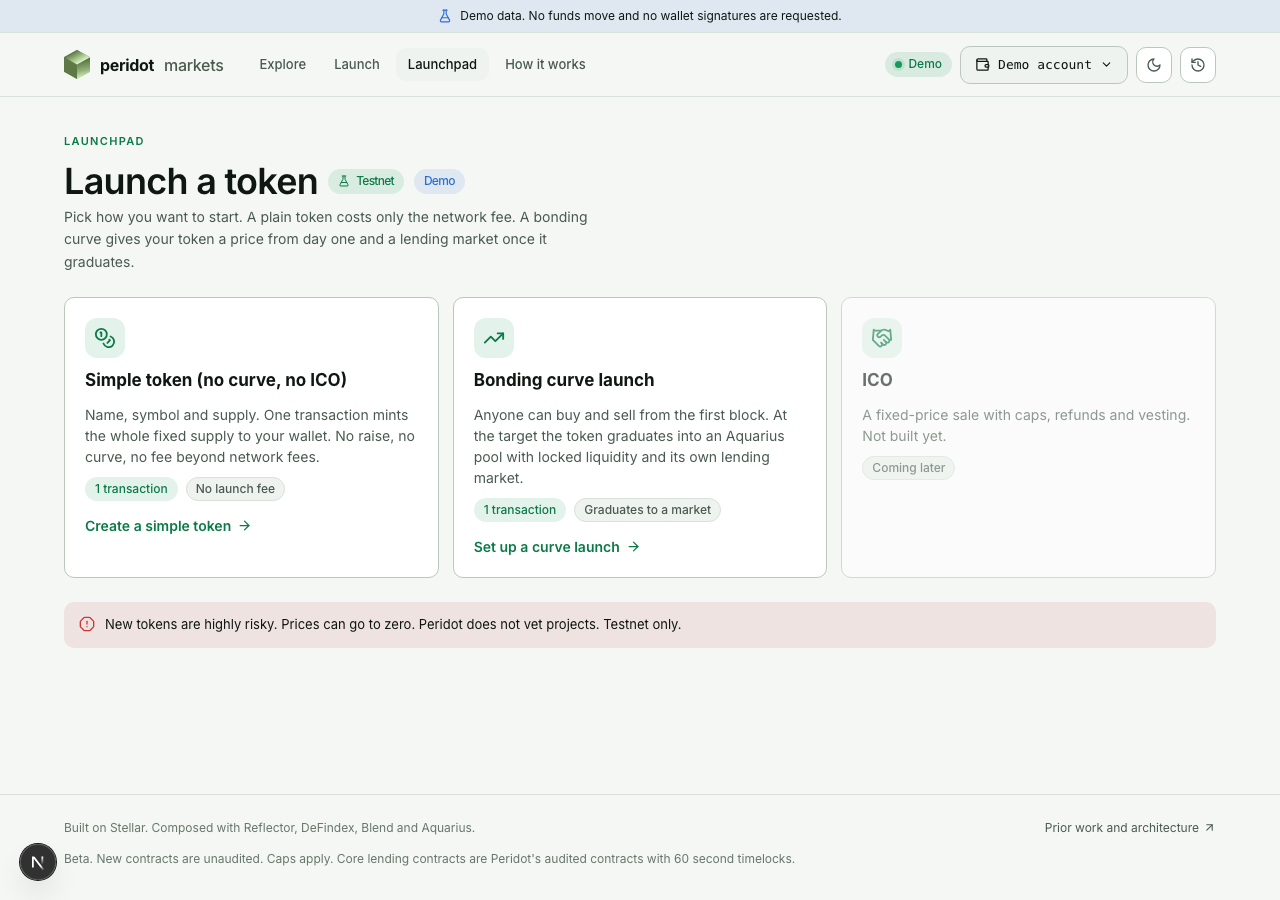
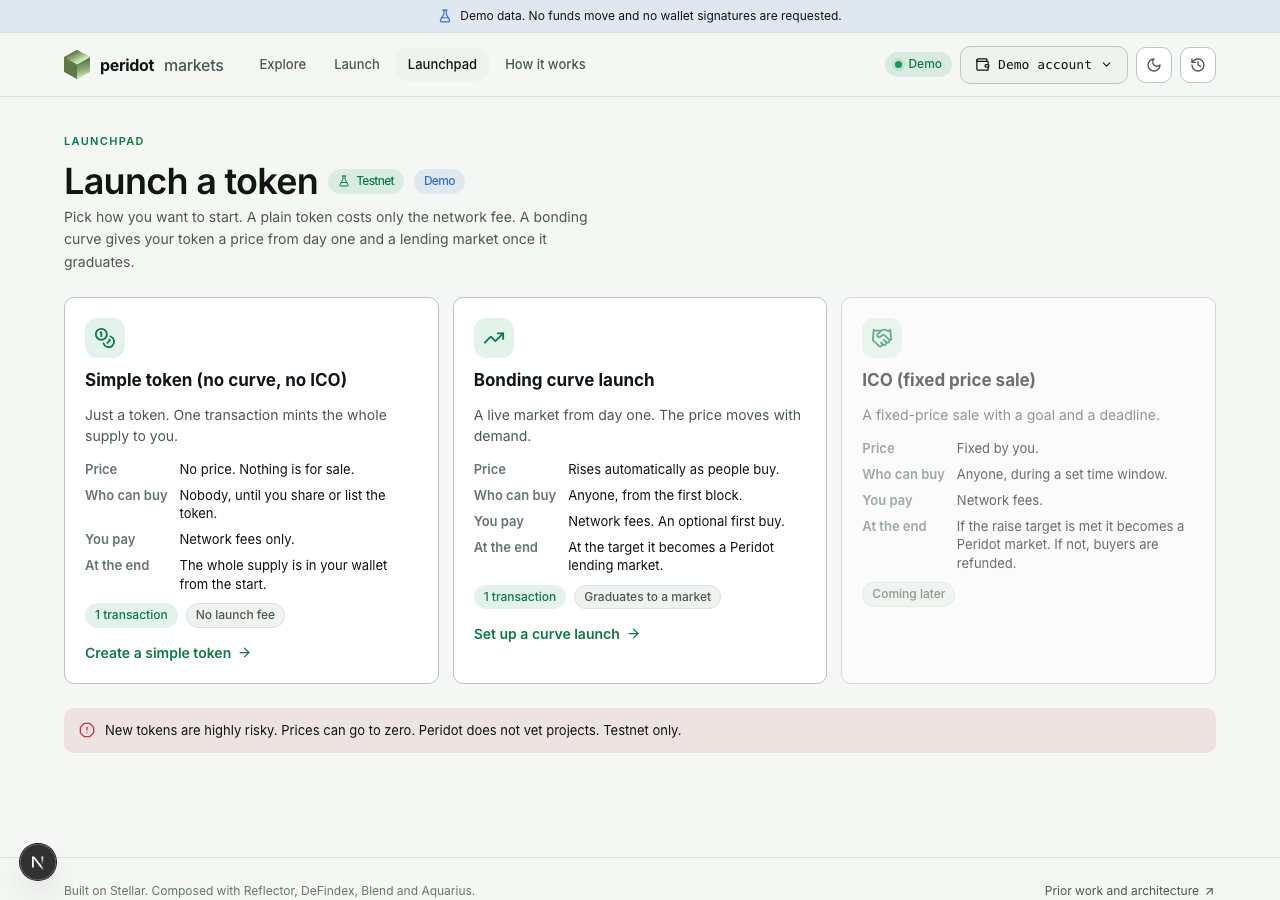
launch chooser: side-by-side comparison of Simple, Curve and ICO; type badge on token cards and pages

diff --git a/app/src/components/launchpad/TokenList.tsx b/app/src/components/launchpad/TokenList.tsx
@@ -10,7 +10,7 @@ import { launchpadCanSign } from '@/lib/launchpad/config';
 import { FINE_SCALE, finePrice, fmtPrice, reservesFromState } from '@/lib/launchpad/math';
 import { Phase, type CurveConfig, type CurveInfo, type LaunchInfo, type PlainTokenInfo } from '@/lib/launchpad/types';
 import { LpAddress } from './LpAddress';
-import { LaunchpadBadges, MainnetNotice, PhaseBadge, RISK_COPY, TokenIcon } from './LaunchpadFrame';
+import { LaunchpadBadges, MainnetNotice, PhaseBadge, RISK_COPY, TokenIcon, TypeBadge } from './LaunchpadFrame';
 
 export interface TokenSummary { launch: LaunchInfo; state: CurveInfo | null; config: CurveConfig | null; error?: string }
 type Filter = 'all' | 'new' | 'graduated' | 'plain';
@@ -48,6 +48,7 @@ export function TokenCard({ summary, mine }: { summary: TokenSummary; mine: bool
     <div className="token-card-top">
       <TokenIcon symbol={launch.symbol} />
       <div style={{ minWidth: 0 }}><h3><Link href={`/token/${launch.token}`}>{launch.name}</Link></h3><span className="subtle" style={{ fontSize: 12 }}>{launch.symbol}{mine ? ' · your launch' : ''}</span></div>
+      <TypeBadge type="curve" />
       {state ? <PhaseBadge phase={state.phase} /> : error ? <Badge tone="danger">Unavailable</Badge> : <Skeleton width={72} height={22} style={{ borderRadius: 999 }} />}
     </div>
     {error && <p className="muted" style={{ fontSize: 13 }}>Curve data unavailable: {error}</p>}
@@ -65,11 +66,11 @@ export function TokenCard({ summary, mine }: { summary: TokenSummary; mine: bool
 }
 
 export function PlainTokenCard({ info, mine }: { info: PlainTokenInfo; mine: boolean }) {
-  return <article className="card group-card token-card" aria-label={`${info.name} (${info.symbol}), plain token`}>
+  return <article className="card group-card token-card" aria-label={`${info.name} (${info.symbol}), simple token`}>
     <div className="token-card-top">
       <TokenIcon symbol={info.symbol} />
       <div style={{ minWidth: 0 }}><h3><Link href={`/token/${info.token}`}>{info.name}</Link></h3><span className="subtle" style={{ fontSize: 12 }}>{info.symbol}{mine ? ' · your token' : ''}</span></div>
-      <Badge tone="info">Plain</Badge>
+      <TypeBadge type="simple" />
     </div>
     <div className="token-card-stats">
       <Stat label="Supply" value={fmtCompact(info.supply, 7)} unit={info.symbol} />
@@ -104,7 +105,7 @@ export function TokenList() {
     </div>
     <MainnetNotice />
     <div className="row between">
-      <Tabs ariaLabel="Filter tokens" value={filter} onChange={setFilter} items={[{ value: 'all', label: `All (${counts.all})` }, { value: 'new', label: `New (${counts.new})` }, { value: 'graduated', label: `Graduated (${counts.graduated})` }, { value: 'plain', label: `Plain (${counts.plain})` }]} />
+      <Tabs ariaLabel="Filter tokens" value={filter} onChange={setFilter} items={[{ value: 'all', label: `All (${counts.all})` }, { value: 'new', label: `New (${counts.new})` }, { value: 'graduated', label: `Graduated (${counts.graduated})` }, { value: 'plain', label: `Simple (${counts.plain})` }]} />
       <span className="subtle" style={{ fontSize: 12 }}>{RISK_COPY}</span>
     </div>
     {loading ? <div className="grid-3" aria-busy="true" aria-label="Loading tokens">{[0, 1, 2].map(i => <div key={i} className="card token-card"><div className="token-card-top"><Skeleton width={40} height={40} style={{ borderRadius: 12 }} /><Skeleton width={140} height={20} /></div><div className="token-card-stats"><Skeleton height={34} /><Skeleton height={34} /></div><Skeleton height={6} /><Skeleton width="50%" /></div>)}</div>

diff --git a/app/src/components/launchpad/LaunchEntry.tsx b/app/src/components/launchpad/LaunchEntry.tsx
@@ -28,21 +28,21 @@ export default function LaunchEntry() {
       <button type="button" className="launch-choice" onClick={() => setMode('simple')} aria-label="Simple token (no curve, no ICO)">
         <span className="launch-choice-icon" aria-hidden><Coins size={22} /></span>
         <strong>Simple token (no curve, no ICO)</strong>
-        <span className="muted">Name, symbol and supply. One transaction mints the whole fixed supply to your wallet. No raise, no curve, no fee beyond network fees.</span>
+        <span className="muted">Just a token. One transaction mints the whole supply to you.</span><dl className="launch-choice-facts"><dt>Price</dt><dd>No price. Nothing is for sale.</dd><dt>Who can buy</dt><dd>Nobody, until you share or list the token.</dd><dt>You pay</dt><dd>Network fees only.</dd><dt>At the end</dt><dd>The whole supply is in your wallet from the start.</dd></dl>
         <span className="row" style={{ gap: 8 }}><Badge tone="accent">1 transaction</Badge><Badge>No launch fee</Badge></span>
         <span className="launch-choice-go">Create a simple token <ArrowRight size={15} aria-hidden /></span>
       </button>
       <button type="button" className="launch-choice" onClick={() => setMode('curve')} aria-label="Bonding curve launch">
         <span className="launch-choice-icon" aria-hidden><TrendingUp size={22} /></span>
         <strong>Bonding curve launch</strong>
-        <span className="muted">Anyone can buy and sell from the first block. At the target the token graduates into an Aquarius pool with locked liquidity and its own lending market.</span>
+        <span className="muted">A live market from day one. The price moves with demand.</span><dl className="launch-choice-facts"><dt>Price</dt><dd>Rises automatically as people buy.</dd><dt>Who can buy</dt><dd>Anyone, from the first block.</dd><dt>You pay</dt><dd>Network fees. An optional first buy.</dd><dt>At the end</dt><dd>At the target it becomes a Peridot lending market.</dd></dl>
         <span className="row" style={{ gap: 8 }}><Badge tone="accent">1 transaction</Badge><Badge>Graduates to a market</Badge></span>
         <span className="launch-choice-go">Set up a curve launch <ArrowRight size={15} aria-hidden /></span>
       </button>
       <div className="launch-choice disabled" aria-disabled="true" aria-label="ICO (not available yet)">
         <span className="launch-choice-icon" aria-hidden><Handshake size={22} /></span>
-        <strong>ICO</strong>
-        <span className="muted">A fixed-price sale with caps, refunds and vesting. Not built yet.</span>
+        <strong>ICO (fixed price sale)</strong>
+        <span className="muted">A fixed-price sale with a goal and a deadline.</span><dl className="launch-choice-facts"><dt>Price</dt><dd>Fixed by you.</dd><dt>Who can buy</dt><dd>Anyone, during a set time window.</dd><dt>You pay</dt><dd>Network fees.</dd><dt>At the end</dt><dd>If the raise target is met it becomes a Peridot market. If not, buyers are refunded.</dd></dl>
         <span className="row" style={{ gap: 8 }}><Badge>Coming later</Badge></span>
       </div>
     </div>

diff --git a/app/tests/e2e/launchpad-flows.spec.ts b/app/tests/e2e/launchpad-flows.spec.ts
@@ -31,6 +31,7 @@ test('launch a test token, trade, reach a target, graduate in six steps and clai
   await page.getByRole('link', { name: 'Open token page' }).click();
   await expect(page).toHaveURL(/\/token\/mock-token-e2e$/);
   await expect(page.getByRole('heading', { level: 1, name: /Browser Fox/ })).toBeVisible();
+  await expect(page.locator('h1 [data-token-type="curve"]')).toBeVisible();
   await expect(page.getByText('Trading', { exact: true }).first()).toBeVisible();
   await expect(page.getByText(/Creator cap: your buys are limited/)).toBeVisible();
 
@@ -100,6 +101,9 @@ test('simple token: choose the plain path, create it in one step and find it tag
   await expect(page.getByRole('button', { name: 'Simple token (no curve, no ICO)' })).toBeVisible();
   await expect(page.getByRole('button', { name: 'Bonding curve launch' })).toBeVisible();
   await expect(page.getByText('Coming later')).toBeVisible();
+  await expect(page.getByText('Rises automatically as people buy.')).toBeVisible();
+  await expect(page.getByText('Fixed by you.')).toBeVisible();
+  await expect(page.getByText('Nobody, until you share or list the token.')).toBeVisible();
   await page.getByRole('button', { name: 'Simple token (no curve, no ICO)' }).click();
   await expect(page.getByRole('heading', { name: /Create a simple token/ })).toBeVisible();
   await expect(page.getByLabel('Decimals')).toBeDisabled();
@@ -121,12 +125,14 @@ test('simple token: choose the plain path, create it in one step and find it tag
   await page.getByRole('link', { name: 'Open token page' }).click();
   await expect(page).toHaveURL(/\/token\/mock-plain-pfox$/);
   await expect(page.getByRole('heading', { level: 1, name: /Plain Fox/ })).toBeVisible();
-  await expect(page.getByText('Plain token', { exact: true })).toBeVisible();
+  await expect(page.locator('h1 [data-token-type="simple"]')).toBeVisible();
   await expect(page.getByText('Later: add a Peridot market')).toBeVisible();
 
   await page.goto('/tokens');
-  await page.getByRole('button', { name: /^Plain \(1\)/ }).click();
-  await expect(page.getByRole('article', { name: 'Plain Fox (PFOX), plain token' })).toBeVisible();
+  await page.getByRole('button', { name: /^Simple \(1\)/ }).click();
+  await expect(page.getByRole('article', { name: 'Plain Fox (PFOX), simple token' }).locator('[data-token-type="simple"]')).toBeVisible();
+  await page.getByRole('button', { name: /^All \(/ }).click();
+  await expect(page.getByRole('article', { name: 'Meridian Moon (MOON)' }).locator('[data-token-type="curve"]')).toBeVisible();
   expect(errors).toEqual([]);
 });
 

diff --git a/app/src/components/launchpad/PlainTokenPage.tsx b/app/src/components/launchpad/PlainTokenPage.tsx
@@ -8,7 +8,7 @@ import { fmtAmount, fmtDate } from '@/components/ui/format';
 import { getTokenBalance, getTokenMeta, type TokenBalance, type TokenMeta } from '@/lib/launchpad/client';
 import type { PlainTokenInfo } from '@/lib/launchpad/types';
 import { LpAddress } from './LpAddress';
-import { LaunchpadBadges, MainnetNotice, RiskNotice, TokenIcon } from './LaunchpadFrame';
+import { LaunchpadBadges, MainnetNotice, RiskNotice, TokenIcon, TypeBadge } from './LaunchpadFrame';
 
 /** Token page for a simple (no curve) token: facts, the wallet balance and a hint about a later Peridot market. */
 export default function PlainTokenPage({ info }: { info: PlainTokenInfo }) {
@@ -26,7 +26,7 @@ export default function PlainTokenPage({ info }: { info: PlainTokenInfo }) {
     <header className="page-heading">
       <div style={{ minWidth: 0 }}>
         <p className="eyebrow"><Link href="/tokens" className="row" style={{ gap: 6 }}><ArrowLeft size={12} aria-hidden />Simple token #{info.id}</Link></p>
-        <h1 className="lp-title"><TokenIcon symbol={info.symbol} uri={meta?.metadataUri} large />{info.name} <Badge>{info.symbol}</Badge> <Badge tone="info">Plain</Badge> <LaunchpadBadges /></h1>
+        <h1 className="lp-title"><TokenIcon symbol={info.symbol} uri={meta?.metadataUri} large />{info.name} <Badge>{info.symbol}</Badge> <TypeBadge type="simple" /> <LaunchpadBadges /></h1>
         <div className="lp-meta"><span>Token <LpAddress value={info.token} label="token address" /></span><span>Creator <LpAddress value={info.creator} label="creator address" /></span><span>Created {fmtDate(info.created_at)}</span></div>
       </div>
     </header>
@@ -35,7 +35,7 @@ export default function PlainTokenPage({ info }: { info: PlainTokenInfo }) {
       <div className="token-stats">
         <Stat label="Total supply" value={fmtAmount(info.supply, 7, 0)} unit={info.symbol} hint="Fixed, nobody can mint more" />
         <Stat label="Decimals" value="7" />
-        <Stat label="Type" value="Plain token" hint="No curve, no ICO" />
+        <Stat label="Type" value="Simple token" hint="No curve, no ICO" />
         <Stat label="Your balance" value={balance ? fmtAmount(balance.balance, 7, 2) : wallet.address ? '...' : 'Connect wallet'} unit={balance ? info.symbol : undefined} />
       </div>
     </section>

diff --git a/app/src/components/launchpad/TokenPage.tsx b/app/src/components/launchpad/TokenPage.tsx
@@ -12,7 +12,7 @@ import { GradStep, PRESETS, Phase, type CurveActivity, type CurveConfig, type Cu
 import { CurveChart } from './CurveChart';
 import { GraduationPanel } from './GraduationPanel';
 import { LpAddress, LpTxLink } from './LpAddress';
-import { LaunchpadBadges, MainnetNotice, PhaseBadge, RiskNotice, TokenIcon, TxStatus, fmtIso } from './LaunchpadFrame';
+import { LaunchpadBadges, MainnetNotice, PhaseBadge, RiskNotice, TokenIcon, TxStatus, TypeBadge, fmtIso } from './LaunchpadFrame';
 import { TradePanel } from './TradePanel';
 
 const readable = (e: unknown) => e instanceof Error ? e.message : String(e);
@@ -105,7 +105,7 @@ export default function TokenPage({ address }: { address: string }) {
     <header className="page-heading">
       <div style={{ minWidth: 0 }}>
         <p className="eyebrow"><Link href="/tokens" className="row" style={{ gap: 6 }}><ArrowLeft size={12} aria-hidden />Launchpad token #{launch.id}</Link></p>
-        <h1 className="lp-title"><TokenIcon symbol={launch.symbol} uri={meta?.metadataUri} large />{launch.name} <Badge>{launch.symbol}</Badge> <PhaseBadge phase={state.phase} /> <LaunchpadBadges /></h1>
+        <h1 className="lp-title"><TokenIcon symbol={launch.symbol} uri={meta?.metadataUri} large />{launch.name} <Badge>{launch.symbol}</Badge> <TypeBadge type="curve" /> <PhaseBadge phase={state.phase} /> <LaunchpadBadges /></h1>
         <div className="lp-meta">
           <span>Token <LpAddress value={launch.token} label="token address" /></span>
           <span>Curve <LpAddress value={launch.curve} label="curve address" /></span>

diff --git a/app/src/components/launchpad/SimpleTokenForm.tsx b/app/src/components/launchpad/SimpleTokenForm.tsx
@@ -77,7 +77,7 @@ export default function SimpleTokenForm({ onBack }: { onBack: () => void }) {
       </section>
       <aside className="card sticky-aside" style={{ display: 'grid', gap: 14 }}>
         <div className="row" style={{ gap: 10 }}><span className="token-icon" aria-hidden>{(draft.symbol || '?').slice(0, 2)}</span><div><p className="kicker">Your token at a glance</p><h3 style={{ margin: 0 }}>{draft.name || 'New token'}</h3></div></div>
-        <KeyValue rows={[['Symbol', draft.symbol || 'n/a'], ['Supply', supply ? whole.format(Number(supply)) : 'n/a'], ['Decimals', '7'], ['Type', 'Plain'], ['Network', mode === 'mock' ? 'testnet demo' : 'testnet']]} />
+        <KeyValue rows={[['Symbol', draft.symbol || 'n/a'], ['Supply', supply ? whole.format(Number(supply)) : 'n/a'], ['Decimals', '7'], ['Type', 'Simple'], ['Network', mode === 'mock' ? 'testnet demo' : 'testnet']]} />
         <hr />
         <p className="kicker" style={{ marginBottom: 6 }}>Rules</p>
         <ul className="muted" style={{ fontSize: 12, paddingLeft: 16, display: 'grid', gap: 4 }}><li>Name 1 to 32 characters, symbol 2 to 12 letters or digits</li><li>Supply fixed at creation, 7 decimals</li><li>At most 100 launches per creator</li></ul>

diff --git a/app/src/components/launchpad/LaunchpadFrame.tsx b/app/src/components/launchpad/LaunchpadFrame.tsx
@@ -30,6 +30,14 @@ export function MainnetNotice() {
   </Notice>;
 }
 
+export type TokenType = 'simple' | 'curve' | 'ico';
+const TYPE_LABEL: Record<TokenType, string> = { simple: 'Simple', curve: 'Curve', ico: 'ICO' };
+const TYPE_HINT: Record<TokenType, string> = { simple: 'Simple token: no sale, whole supply went to the creator', curve: 'Bonding curve token: price rises as people buy', ico: 'ICO token: fixed price sale' };
+/** Small badge that says how a token was launched, shown on every token card and token page. */
+export function TypeBadge({ type }: { type: TokenType }) {
+  return <span title={TYPE_HINT[type]} data-token-type={type}><Badge tone={type === 'curve' ? 'accent' : type === 'ico' ? 'warn' : 'info'}>{TYPE_LABEL[type]}</Badge></span>;
+}
+
 export const RISK_COPY = 'New tokens are highly risky. Prices can go to zero. Peridot does not vet projects. Testnet only.';
 export function RiskNotice() { return <Notice tone="danger" role="note">{RISK_COPY}</Notice>; }
 

diff --git a/app/src/components/launchpad/launchpad.css b/app/src/components/launchpad/launchpad.css
@@ -71,3 +71,7 @@ button.launch-choice:focus-visible { box-shadow: var(--focus); outline: none; }
 .launch-choice-icon { width: 40px; height: 40px; border-radius: 12px; background: var(--accent-soft); color: var(--accent-text); display: grid; place-items: center; }
 .launch-choice-go { display: inline-flex; align-items: center; gap: 6px; color: var(--accent-text); font-weight: 600; font-size: 14px; margin-top: 4px; }
 @media (max-width: 900px) { .launch-choice-grid { grid-template-columns: minmax(0, 1fr); } }
+
+.launch-choice-facts { display: grid; grid-template-columns: auto minmax(0, 1fr); gap: 8px 12px; margin: 4px 0 0; font-size: 13px; line-height: 1.4; }
+.launch-choice-facts dt { color: var(--text-3); font-weight: 600; white-space: nowrap; }
+.launch-choice-facts dd { margin: 0; }

diff --git a/docs/handoff/12-LAUNCHPAD.md b/docs/handoff/12-LAUNCHPAD.md
@@ -70,4 +70,5 @@ For creators who do not want a raise or a bonding curve: `launchpad-factory.crea
 - **Registry**: separate from curve launches so `LaunchInfo` (which requires a curve) keeps its shape. Views: `plain_token_count`, `list_plain_tokens(start, limit<=50)`, `plain_tokens_of(creator)`, `get_plain_token(token)`. Event `plain_token_created(id, creator; token, symbol, supply)`. Name and symbol use the curve rules, at most 100 per creator, honours `set_paused`. Error `InvalidSupply = 17`.
[1 lines of base64/hex data omitted]
 - **App**: `/launch-token` opens with a chooser (Simple token, Bonding curve launch, ICO shown as "Coming later"). The simple path is `SimpleTokenForm` (name, symbol, supply, fixed decimals, optional image URI, risk acknowledgement) with a success card (token address, explorer links, "Later: add a Peridot market" hint). `/token/<address>` shows `PlainTokenPage` for simple tokens, and `/tokens` has a "Plain" filter with cards tagged Plain. Demo mode keeps simple tokens in the browser mock (`plainTokens`). Screenshots: `docs/ui/simple-token-*.png`.
+- **Which type is which**: the chooser compares the three types side by side (price, who can buy, what the creator pays, what happens at the end; the ICO column is marked "Coming later"). Every token card and token page carries a type badge: Simple, Curve or ICO (`TypeBadge` in `LaunchpadFrame.tsx`). The list filter for simple tokens is "Simple".
 - **Tests**: 5 factory unit tests (`cargo test -p launchpad-factory plain`), `app/src/lib/launchpad/plain.test.ts`, and two Playwright flows in `tests/e2e/launchpad-flows.spec.ts`.
